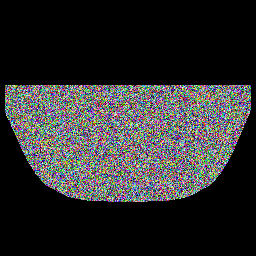
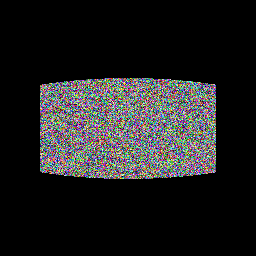
added augmentation to the mask

diff --git a/patch/nn_modules.py b/patch/nn_modules.py
@@ -1,6 +1,7 @@
 import torch.nn as nn
 import matplotlib.pyplot as plt
 import torch
+import math
 import numpy as np
 import torch.nn.functional as F
 from landmark_detection.face_alignment.face_alignment import FaceAlignment
@@ -49,16 +50,20 @@ class FaceXZooProjector(nn.Module):
         self.patch_size_width = patch_size[1]
         self.patch_size_height = patch_size[0]
         self.device = device
-        self.uv_mask_src = transforms.ToTensor()(Image.open('../prnet/new_uv.png').convert('L')).to(device)
+        self.uv_mask_src = transforms.ToTensor()(Image.open('../prnet/new_uv.png').convert('L')).to(device).unsqueeze(0)
+        self.uv_face_src = transforms.ToTensor()(Image.open('../prnet/uv_face_mask.png').convert('L')).to(device).unsqueeze(0)
         self.triangles = torch.from_numpy(np.loadtxt('../prnet/triangles.txt').astype(np.int64)).T.to(device)
+        self.minangle = -10 / 180 * math.pi
+        self.maxangle = 10 / 180 * math.pi
+        self.min_trans_x = -0.05
+        self.min_trans_y = -0.15
+        self.max_trans_x = 0.05
+        self.max_trans_y = 0.03
 
-    def forward(self, img_batch, landmarks, adv_patch, uv_mask_src=None):
+    def forward(self, img_batch, landmarks, adv_patch, uv_mask_src=None, do_aug=False):
         pos, vertices = self.get_vertices(landmarks, img_batch)
         texture = kornia.geometry.remap(img_batch, map_x=pos[:, 0], map_y=pos[:, 1], mode='nearest')
-        if uv_mask_src is None:
-            new_texture = texture * (1 - self.uv_mask_src) + adv_patch * self.uv_mask_src
-        else:
-            new_texture = texture * (1 - uv_mask_src) + adv_patch * uv_mask_src
+        new_texture = self.get_new_texture(texture, adv_patch, uv_mask_src, do_aug)
         new_colors = self.prn.get_colors_from_texture(new_texture)
         del new_texture, texture, pos
         torch.cuda.empty_cache()
@@ -74,8 +79,8 @@ class FaceXZooProjector(nn.Module):
                                 torch.zeros(1, device=self.device))
         new_image = img_batch * (1 - face_mask) + (new_image * face_mask)
         new_image = torch.clamp(new_image, 0, 1)  # must clip to (-1, 1)!
-        # for i in range(new_image.shape[0]):
-        #     transforms.ToPILImage()(new_image[i]).show()
+        for i in range(new_image.shape[0]):
+            transforms.ToPILImage()(new_image[i]).show()
         return new_image
 
     def get_vertices(self, face_lms, image):
@@ -88,6 +93,31 @@ class FaceXZooProjector(nn.Module):
         pos = self.prn.process(image, face_lms)
         vertices = self.prn.get_vertices(pos)
         return pos, vertices
+
+    def get_new_texture(self, texture, adv_patch, uv_mask_src, do_aug):
+        if uv_mask_src is None:
+            uv_mask_src = self.uv_mask_src
+        if do_aug:
+            merged = torch.cat([adv_patch, uv_mask_src], dim=1)
+            merged_aug = self.apply_random_grid_sample(merged)
+            adv_patch = merged_aug[:, :3]
+            uv_mask_src = merged_aug[:, 3]
+        uv_face_src = self.uv_face_src - uv_mask_src
+        new_texture = adv_patch * (1 - uv_face_src) + texture * uv_face_src
+        return new_texture
+
+    def apply_random_grid_sample(self, face_mask):
+        theta = torch.zeros((face_mask.shape[0], 2, 3), dtype=torch.float, device=self.device)
+        rand_angle = torch.empty(face_mask.shape[0], device=self.device).uniform_(self.minangle, self.maxangle)
+        theta[:, 0, 0] = torch.cos(rand_angle)
+        theta[:, 0, 1] = -torch.sin(rand_angle)
+        theta[:, 1, 1] = torch.cos(rand_angle)
+        theta[:, 1, 0] = torch.sin(rand_angle)
+        theta[:, 0, 2].uniform_(self.min_trans_x, self.max_trans_x)  # move x
+        theta[:, 1, 2].uniform_(self.min_trans_y, self.max_trans_y)  # move y
+        grid = F.affine_grid(theta, list(face_mask.size()))
+        augmented = F.grid_sample(face_mask, grid, padding_mode='border')
+        return augmented
 
 
 class PRN:

diff --git a/patch/train.py b/patch/train.py
@@ -198,7 +198,7 @@ class AdversarialMask:
 
         preds = self.location_extractor(img_batch)
         # preds = self.get_batch_landmarks(img_names)
-        img_batch_applied = self.fxz_projector(img_batch, preds, adv_patch)
+        img_batch_applied = self.fxz_projector(img_batch, preds, adv_patch, do_aug=True)
         # img_batch_applied = torch.nn.functional.interpolate(img_batch_applied, 112)
         # normalized_batch = self.normalize_arcface(img_batch_applied, preds)
         patch_emb = self.embedder(img_batch_applied)

diff --git a/patch/config.py b/patch/config.py
@@ -23,8 +23,8 @@ class BaseConfiguration:
 
         # Attack options
         self.patch_size = (256, 256)  # height, width
-        self.initial_patch = 'white'  # body, white, random, stripes, l_stripes
-        self.epochs = 100
+        self.initial_patch = 'l_stripes'  # body, white, random, stripes, l_stripes
+        self.epochs = 1
         self.start_learning_rate = 1e-2
         self.es_patience = 5
         self.sc_patience = 1

diff --git a/patch/utils.py b/patch/utils.py
@@ -278,7 +278,7 @@ class EarlyStopping:
 @torch.no_grad()
 def apply_mask(location_extractor, fxz_projector, img_batch, patch_rgb, patch_alpha=None):
     preds = location_extractor(img_batch)
-    img_batch_applied = fxz_projector(img_batch, preds, patch_rgb, patch_alpha)
+    img_batch_applied = fxz_projector(img_batch, preds, patch_rgb, uv_mask_src=patch_alpha)
     return img_batch_applied
 
 
